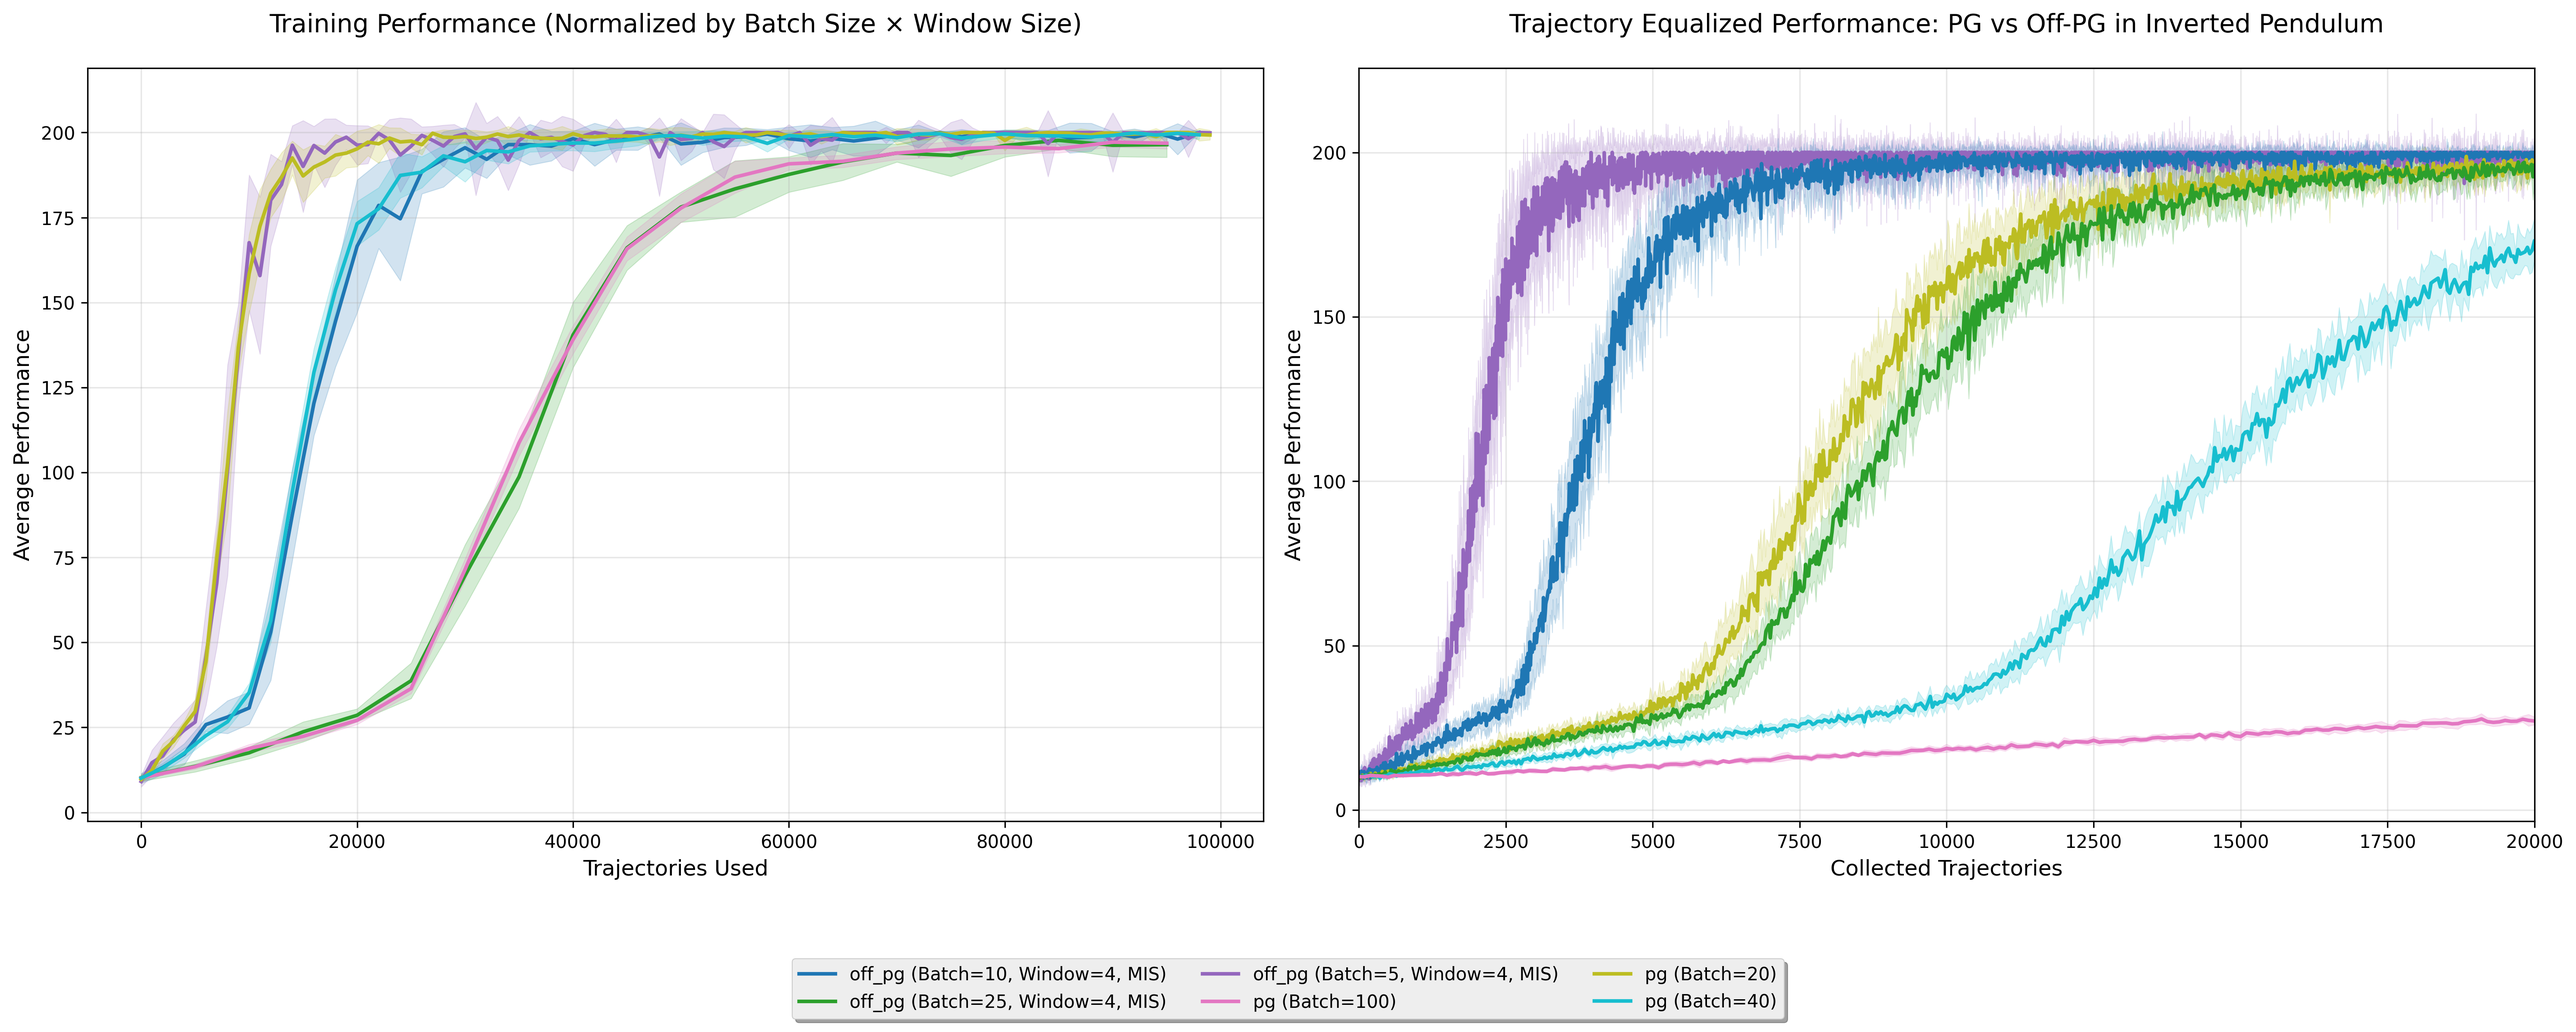
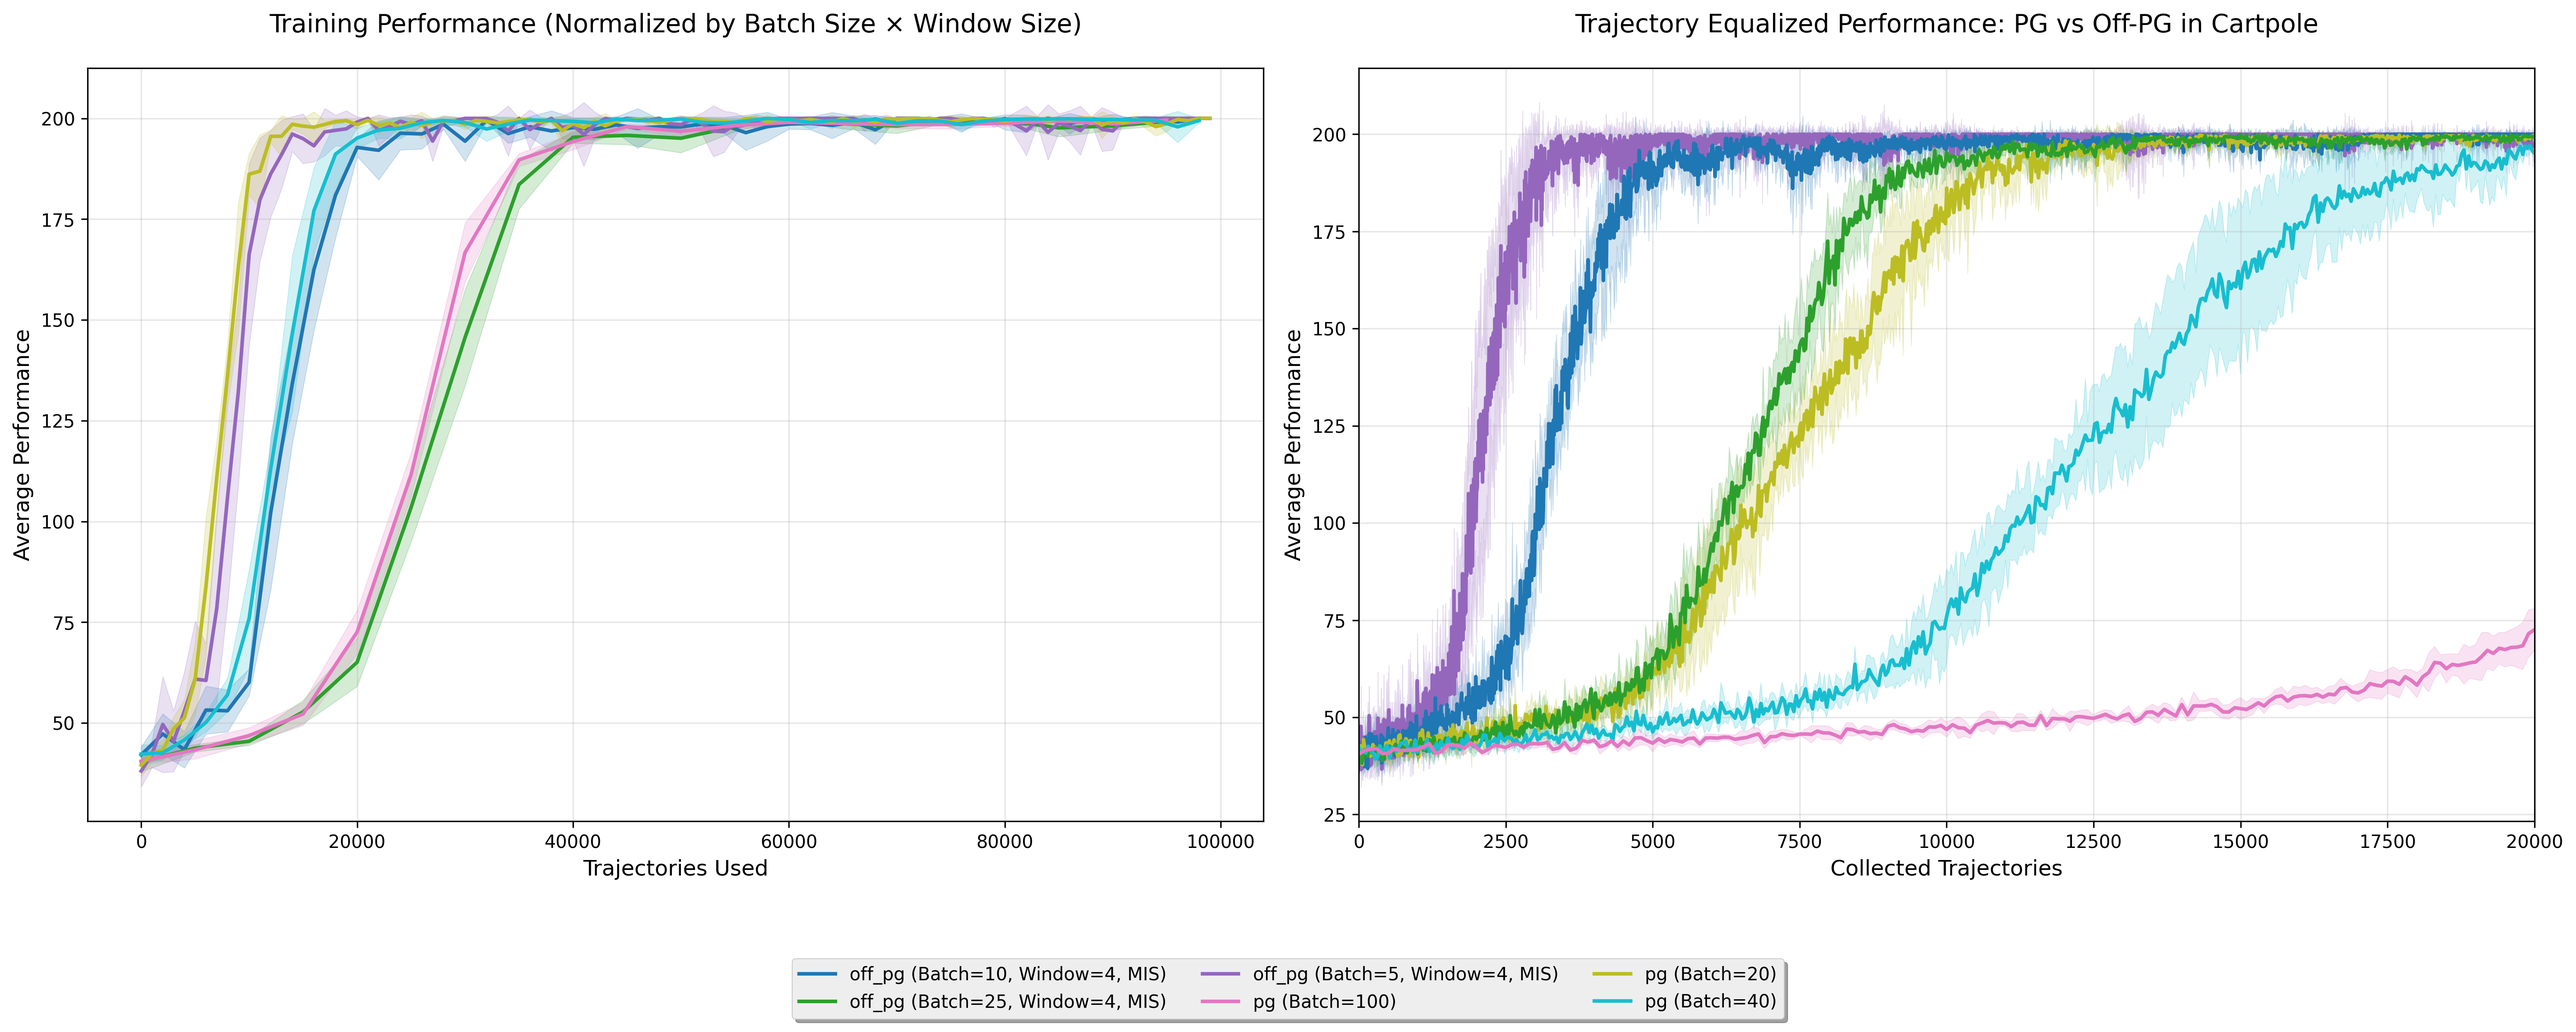
D fix

diff --git a/visualizations/visualization_trajectory.py b/visualizations/visualization_trajectory.py
@@ -2,33 +2,7 @@ import json
 import matplotlib.pyplot as plt
 import os
 import numpy as np
-import re
 import pandas as pd
-
-def extract_clean_label(folder_name):
-    pattern = r'(off_pg|pg)_\d+_pendulum_\d+_adam_\d+_gaussian_batch_(\d+)_noclip(?:_window_(\d+)_?(BH|MIS))?_(\d+)_var_\d+'
-    match = re.search(pattern, folder_name)
-    
-    if match:
-        algorithm = match.group(1)
-        batch_size = int(match.group(2))
-        window = match.group(3) if match.group(3) else "N/A"
-        bh_or_mis = match.group(4) if match.group(4) else "N/A"
-        
-        # Create a clean label
-        if algorithm != "N/A":
-            clean_label = f"{algorithm} ("
-            if batch_size != "N/A":
-                clean_label += f"Batch_size={batch_size}"
-            if window != "N/A":
-                clean_label += f", Window={window}"
-            if bh_or_mis != "N/A":
-                clean_label += f", {bh_or_mis}"
-            clean_label += ")"
-            
-        # Return both the clean label and batch size
-        return clean_label, batch_size
-    return None, None
 
 def calculate_trajectories(algorithm_type, num_episodes, params):
     """
@@ -70,10 +44,10 @@ def calculate_trajectories(algorithm_type, num_episodes, params):
         
         trajectories = []
         while len(trajectories) < num_episodes:
-            trajectories.append(N)
-            for _ in range(X):
+            trajectories.append(N) #snapshot
+            for _ in range(X - 1):
                 if len(trajectories) < num_episodes:
-                    trajectories.append(B)
+                    trajectories.append(B) #minibatch
     else:
         # For unknown algorithm types, require at least B
         if 'B' not in params:
@@ -88,48 +62,51 @@ def calculate_trajectories(algorithm_type, num_episodes, params):
     # Truncate to requested number of episodes
     return cumulative[:num_episodes]
 
-def load_json_data(results_dir):
+def load_json_data(results_dir, json_folders):
     """
     Load performance data from JSON files in the results directory.
-    Returns a dictionary mapping experiment labels to performance statistics and batch sizes.
+    
+    Parameters:
+    - results_dir: Base directory containing experiment folders
+    - json_folders: Dictionary mapping folder names to batch sizes
+                  Example: {'storm_experiment1': 10, 'storm_experiment2': 20}
+    
+    Returns:
+    - Dictionary mapping batch sizes to lists of (label, mean_perf, std_perf, batch_size) tuples
     """
     experiment_data = {}
     
-    for experiment_dir in os.listdir(results_dir):
-        experiment_path = os.path.join(results_dir, experiment_dir)
+    for folder_name, batch_size in json_folders.items():
+        experiment_path = os.path.join(results_dir, folder_name)
         if not os.path.isdir(experiment_path):
+            print(f"Warning: Folder not found: {experiment_path}")
             continue
-        
-        # Extract clean label using the regex pattern
-        clean_label, batch_size = extract_clean_label(experiment_dir)
-        if clean_label is None:
-            continue
-        
-        # Extract batch size directly from the folder name for grouping
-        if batch_size not in experiment_data:
-            experiment_data[batch_size] = []
-        
+            
         performances = []
         
+        # Process each trial directory
         for trial_dir in os.listdir(experiment_path):
             trial_path = os.path.join(experiment_path, trial_dir)
             if not os.path.isdir(trial_path):
                 continue
                 
             results_file = os.path.join(trial_path, "pg_results.json")
-            if not os.path.exists(results_file):
-                continue
-                
-            with open(results_file, 'r') as f:
-                data = json.load(f)
-                performances.append(data['performance'])
-                
+            if os.path.exists(results_file):
+                with open(results_file, 'r') as f:
+                    data = json.load(f)
+                    performances.append(data['performance'])
+        
         if performances:
+            # Calculate statistics
             performances = np.array(performances)
             mean_perf = np.mean(performances, axis=0)
             std_perf = np.std(performances, axis=0)
-            experiment_data[batch_size].append((clean_label, mean_perf, std_perf, batch_size))
-    
+            
+            # Add to data dictionary
+            if batch_size not in experiment_data:
+                experiment_data[batch_size] = []
+            experiment_data[batch_size].append((folder_name, mean_perf, std_perf, batch_size))
+            
     return experiment_data
 
 def load_csv_data(base_dir, folder, algorithm_type, trajectory_params):
@@ -210,61 +187,57 @@ def load_csv_data(base_dir, folder, algorithm_type, trajectory_params):
     
     return csv_data
 
-def plot_performance_by_trajectory(csv_folders=None):
+def plot_performance_by_trajectory(json_folders=None, csv_folders=None):
     """
     Plot performance data by trajectory, combining JSON and CSV data sources.
     
     Parameters:
+    - json_folders: Dictionary mapping folder names to batch sizes
+                  Example: {'storm_experiment1': 10, 'storm_experiment2': 20}
     - csv_folders: Dictionary mapping folder names to (algorithm_type, params) tuples
                   Example: {'storm_baseline': ('storm-pg', {'N': 100, 'B': 20})}
     """
-    results_dir = "results/pendulum_MIS/baselines"
+    results_dir = "results/swimmer_MIS_nn/final"
     plt.figure(figsize=(12, 8), dpi=300)
     plt.style.use('bmh')
     
-    # Load JSON data
-    experiment_data = load_json_data(results_dir)
+    experiment_data = {}
+    
+    # Load JSON data if specified
+    if json_folders:
+        json_data = load_json_data(results_dir, json_folders)
+        # Update experiment_data with JSON data
+        for batch_size, entries in json_data.items():
+            if batch_size not in experiment_data:
+                experiment_data[batch_size] = []
+            experiment_data[batch_size].extend(entries)
     
     # Load CSV data if specified
     if csv_folders:
         for folder, (algorithm_type, params) in csv_folders.items():
             csv_data = load_csv_data(results_dir, folder, algorithm_type, params)
-            
-            # Merge CSV data with JSON data
             for batch_size, entries in csv_data.items():
                 if batch_size not in experiment_data:
                     experiment_data[batch_size] = []
                 experiment_data[batch_size].extend(entries)
     
-    # Sort within each batch size group to ensure consistent color ordering
-    for batch_size in experiment_data:
-        experiment_data[batch_size].sort(key=lambda x: x[0])
-    
     # Plot the data
     for batch_size, experiments in sorted(experiment_data.items()):
-        for clean_label, mean_perf, std_perf, actual_batch in experiments:
-            # Check if this is CSV data (based on the label matching a folder name)
-            is_csv_data = csv_folders and clean_label in csv_folders
-            
-            if is_csv_data:
-                # Use the exact trajectory parameters provided for CSV data
-                algorithm_type, params = csv_folders[clean_label]
-                # Calculate cumulative trajectories based on exact algorithm parameters
-                x_values = calculate_trajectories(
-                    algorithm_type, 
-                    len(mean_perf), 
-                    params
-                )
+        for label, mean_perf, std_perf, actual_batch in experiments:
+            # Determine x-axis values
+            if csv_folders and label in csv_folders:
+                # Use trajectory calculation for CSV data
+                algorithm_type, params = csv_folders[label]
+                x_values = calculate_trajectories(algorithm_type, len(mean_perf), params)
             else:
-                # For JSON data, use the standard approach from the original code
-                effective_x = np.arange(0, len(mean_perf) * batch_size, batch_size)
-                x_values = effective_x
+                # Simple batch size multiplication for JSON data
+                x_values = np.arange(0, len(mean_perf) * batch_size, batch_size)
             
-            # Ensure x_values and mean_perf have the same length
+            # Ensure x_values and mean_perf have same length
             x_values = x_values[:len(mean_perf)]
             
-            # Use the clean_label directly for the plot legend
-            line = plt.plot(x_values, mean_perf, label=clean_label, linewidth=2)[0]
+            # Plot the line
+            line = plt.plot(x_values, mean_perf, label=label, linewidth=2)[0]
             plt.fill_between(
                 x_values,
                 mean_perf - std_perf,
@@ -275,11 +248,9 @@ def plot_performance_by_trajectory(csv_folders=None):
     
     plt.xlabel('Collected Trajectories', fontsize=12)
     plt.ylabel('Average Performance', fontsize=12)
-    plt.title('Trajectory Equalized Performance: PG vs Off-PG in Inverted Pendulum', fontsize=14, pad=20)
-
-    plt.xlim(0, 5000)  # Adjusted x-axis limit for better visibility
+    plt.title('Trajectory Equalized Performance in Swimmer', fontsize=14, pad=20)
     
-    # Improve legend with sorting and formatting
+    # Create legend
     handles, labels = plt.gca().get_legend_handles_labels()
     labels, handles = zip(*sorted(zip(labels, handles)))
     plt.legend(handles, labels, bbox_to_anchor=(1.05, 1), loc='upper left', fontsize=10)
@@ -287,20 +258,24 @@ def plot_performance_by_trajectory(csv_folders=None):
     plt.grid(True, alpha=0.3)
     plt.tight_layout()
     
-    # Create directory if it doesn't exist
+    # Save figure
     save_path = os.path.join('visualizations', 'performance_by_trajectory_with_baselines.png')
     os.makedirs(os.path.dirname(save_path), exist_ok=True)
-    
     plt.savefig(save_path, bbox_inches='tight', dpi=300)
     plt.close()
 
 if __name__ == "__main__":
+    # Define JSON folders with their batch sizes
+    json_folders = {
+        'TRPG_20B': 20,
+    }
+    
     # Define CSV folders with their algorithm types and parameters
     csv_folders = {
         'storm-pg_25N_10B': ('storm-pg', {'N': 25, 'B': 10}),
-        'svrpg_50N_5B': ('svrpg', {'N': 50, 'B': 5, 'X': 10}),
-        'srvrpg_50N_5B': ('svrpg', {'N': 50, 'B': 5, 'X': 10}),
-        # Add more folders as needed
+        'svrpg_110N_10B': ('svrpg', {'N': 110, 'B': 10, 'X': 10}),
+        'srvrpg_110N_10B': ('svrpg', {'N': 110, 'B': 10, 'X': 10}),
+        'def-pg_55N_5B': ('def-pg', {'B': 10}),
     }
     
-    plot_performance_by_trajectory(csv_folders)
+    plot_performance_by_trajectory(json_folders, csv_folders)

diff --git a/algorithms/off_policy.py b/algorithms/off_policy.py
@@ -185,7 +185,7 @@ class OffPolicyGradient:
         # for MIS: each element is the log sum of the trajectory under its behavioral distribution
         elif self.weight_type == "MIS":
             log_sums = np.zeros(self.window_size, dtype=np.float64)
-            #we need one r
+            #action means
             means = np.zeros((self.window_size, self.env.horizon, self.dim_action), dtype=np.float64)
 
         for i in tqdm(range(self.ite)):
@@ -197,7 +197,6 @@ class OffPolicyGradient:
                     env=copy.deepcopy(self.env),
                     pol=copy.deepcopy(self.policy),
                     dp=copy.deepcopy(self.data_processor),
-                    # params=copy.deepcopy(self.thetas),
                     params=None,
                     starting_state=None,
                     thetas_queue=thetas_queue,
@@ -667,20 +666,21 @@ class OffPolicyGradient:
         else:
             #compute the difference between the log sums of the past trajectories and the log sum of the current trajectory
             #log diff matrix has shape (num_updates, batch_size)
-            log_diff_matrix = np.array(log_sums[:num_trajectories] - current_theta_log_sums, dtype=np.float128).reshape(-1, self.batch_size)
+            log_diff_matrix = np.array(log_sums[:num_trajectories] - current_theta_log_sums, dtype=np.longdouble).reshape(-1, self.batch_size)
 
             #BEGIN of D estimation
             D_vector = self.compute_all_I_alpha(current_means=current_theta_means, past_means=means[:num_trajectories], alpha=2).reshape(-1,1)
+
+            lambda_vector = np.sqrt(4 * np.log(1/conf)  / (3 * num_trajectories * D_vector))
 
             D_vector = np.power(D_vector, 1/2) 
 
             D_inverse = 1 / D_vector
             D_sum = np.sum(D_inverse)
 
-            lambda_vector = np.sqrt(4 * np.log(1/conf)  / (3 * num_trajectories * D_vector))
             #alpha_vector = 1 / (self.num_updates - 1 + D_vector)
             alpha_vector = D_inverse / D_sum
-            importance_vector = np.array(alpha_vector / ((1 - lambda_vector) * np.exp(log_diff_matrix.astype(np.float128)) + lambda_vector), dtype=np.float64) #final importance ratio
+            importance_vector = np.array(alpha_vector / ((1 - lambda_vector) * np.exp(log_diff_matrix.astype(np.longdouble)) + lambda_vector), dtype=np.float64) #final importance ratio
             
 
         importance_vector =  importance_vector / self.batch_size

diff --git a/run.py b/run.py
@@ -56,7 +56,7 @@ parser.add_argument(
     help="The environment.",
     type=str,
     default="swimmer",
-    choices=["swimmer", "half_cheetah", "reacher", "humanoid", "ant", "hopper", "lqr", "pendulum"]
+    choices=["swimmer", "half_cheetah", "reacher", "humanoid", "ant", "hopper", "lqr", "pendulum", "cartpole"]
 )
 parser.add_argument(
     "--costs",
@@ -235,6 +235,10 @@ for i in range(args.n_trials):
         env_class = Pendulum
         env = env_class(horizon=args.horizon, gamma=args.gamma, render=False, clip=bool(args.clip))
         MULTI_LINEAR = True
+    elif args.env == "cartpole":
+        env_class = ContCartPole
+        env = env_class(horizon=args.horizon, gamma=args.gamma)
+        MULTI_LINEAR = True
     else:
         raise ValueError(f"Invalid env name.")
     s_dim = env.state_dim
@@ -331,9 +335,9 @@ for i in range(args.n_trials):
         raise ValueError(f"Invalid policy name.")
     # dir_name += f"{tot_params}_var_{string_var}_trial_{i}"
     dir_name += f"{tot_params}_var_{string_var}"
-    dir_name = base_dir + dir_name + "/" + dir_name + f"_trial_{i}"
+    dir_name = base_dir + dir_name + "/" + dir_name + f"_trial_{i+2}"
     dir_name = sanitize_filename(dir_name)
-
+    
     """Algorithm"""
     if args.alg == "pgpe":
         if args.var == 1:

diff --git a/visualizations/test.py b/visualizations/test.py
@@ -5,7 +5,7 @@ import numpy as np
 import re
 
 def plot_combined_performance(subsample_rate=50):
-    results_dir = "results/pendulum_MIS/sensitivity_trajectory/"
+    results_dir = "results/cartpole/sensitivity_trajectory2/"
     
     # Create a figure with two subplots
     fig, (ax1, ax2) = plt.subplots(1, 2, figsize=(20, 8), dpi=300)
@@ -146,7 +146,7 @@ def plot_combined_performance(subsample_rate=50):
     
     ax2.set_xlabel('Collected Trajectories', fontsize=12)
     ax2.set_ylabel('Average Performance', fontsize=12)
-    ax2.set_title('Trajectory Equalized Performance: PG vs Off-PG in Inverted Pendulum', fontsize=14, pad=20)
+    ax2.set_title('Trajectory Equalized Performance: PG vs Off-PG in Cartpole', fontsize=14, pad=20)
     ax2.set_xlim(0, 20000)
     ax2.grid(True, alpha=0.3)
     

diff --git a/envs/cartpole.py b/envs/cartpole.py
@@ -23,6 +23,8 @@ class ContCartPole(gym.Env):
 
     def __init__(self, horizon, gamma):
         # todo do better
+        self.with_costs = False
+        self.how_many_costs = 0
         self.horizon = horizon
         self.gamma = gamma
         self.action_bounds = [-10, 10]
@@ -91,7 +93,7 @@ class ContCartPole(gym.Env):
         x_dot = x_dot + self.tau * xacc
         theta = theta + self.tau * theta_dot
         theta_dot = theta_dot + self.tau * thetaacc
-        self.state = (x, x_dot[0], theta, theta_dot[0])
+        self.state = np.array([x, x_dot[0], theta, theta_dot[0]])
         done = (x < -self.x_threshold or x > self.x_threshold
                 or theta < -self.theta_threshold_radians or theta > self.theta_threshold_radians)
         done = bool(done)

diff --git a/algorithms/policy_gradient.py b/algorithms/policy_gradient.py
@@ -223,8 +223,8 @@ class PolicyGradient:
                 print("*" * 30)
 
             # Checkpoint
-            if self.time % self.checkpoint_freq == 0:
-                self.save_results()
+            #if self.time % self.checkpoint_freq == 0:
+            #    self.save_results()
 
             # save theta history
             self.theta_history[self.time, :] = copy.deepcopy(self.thetas)
